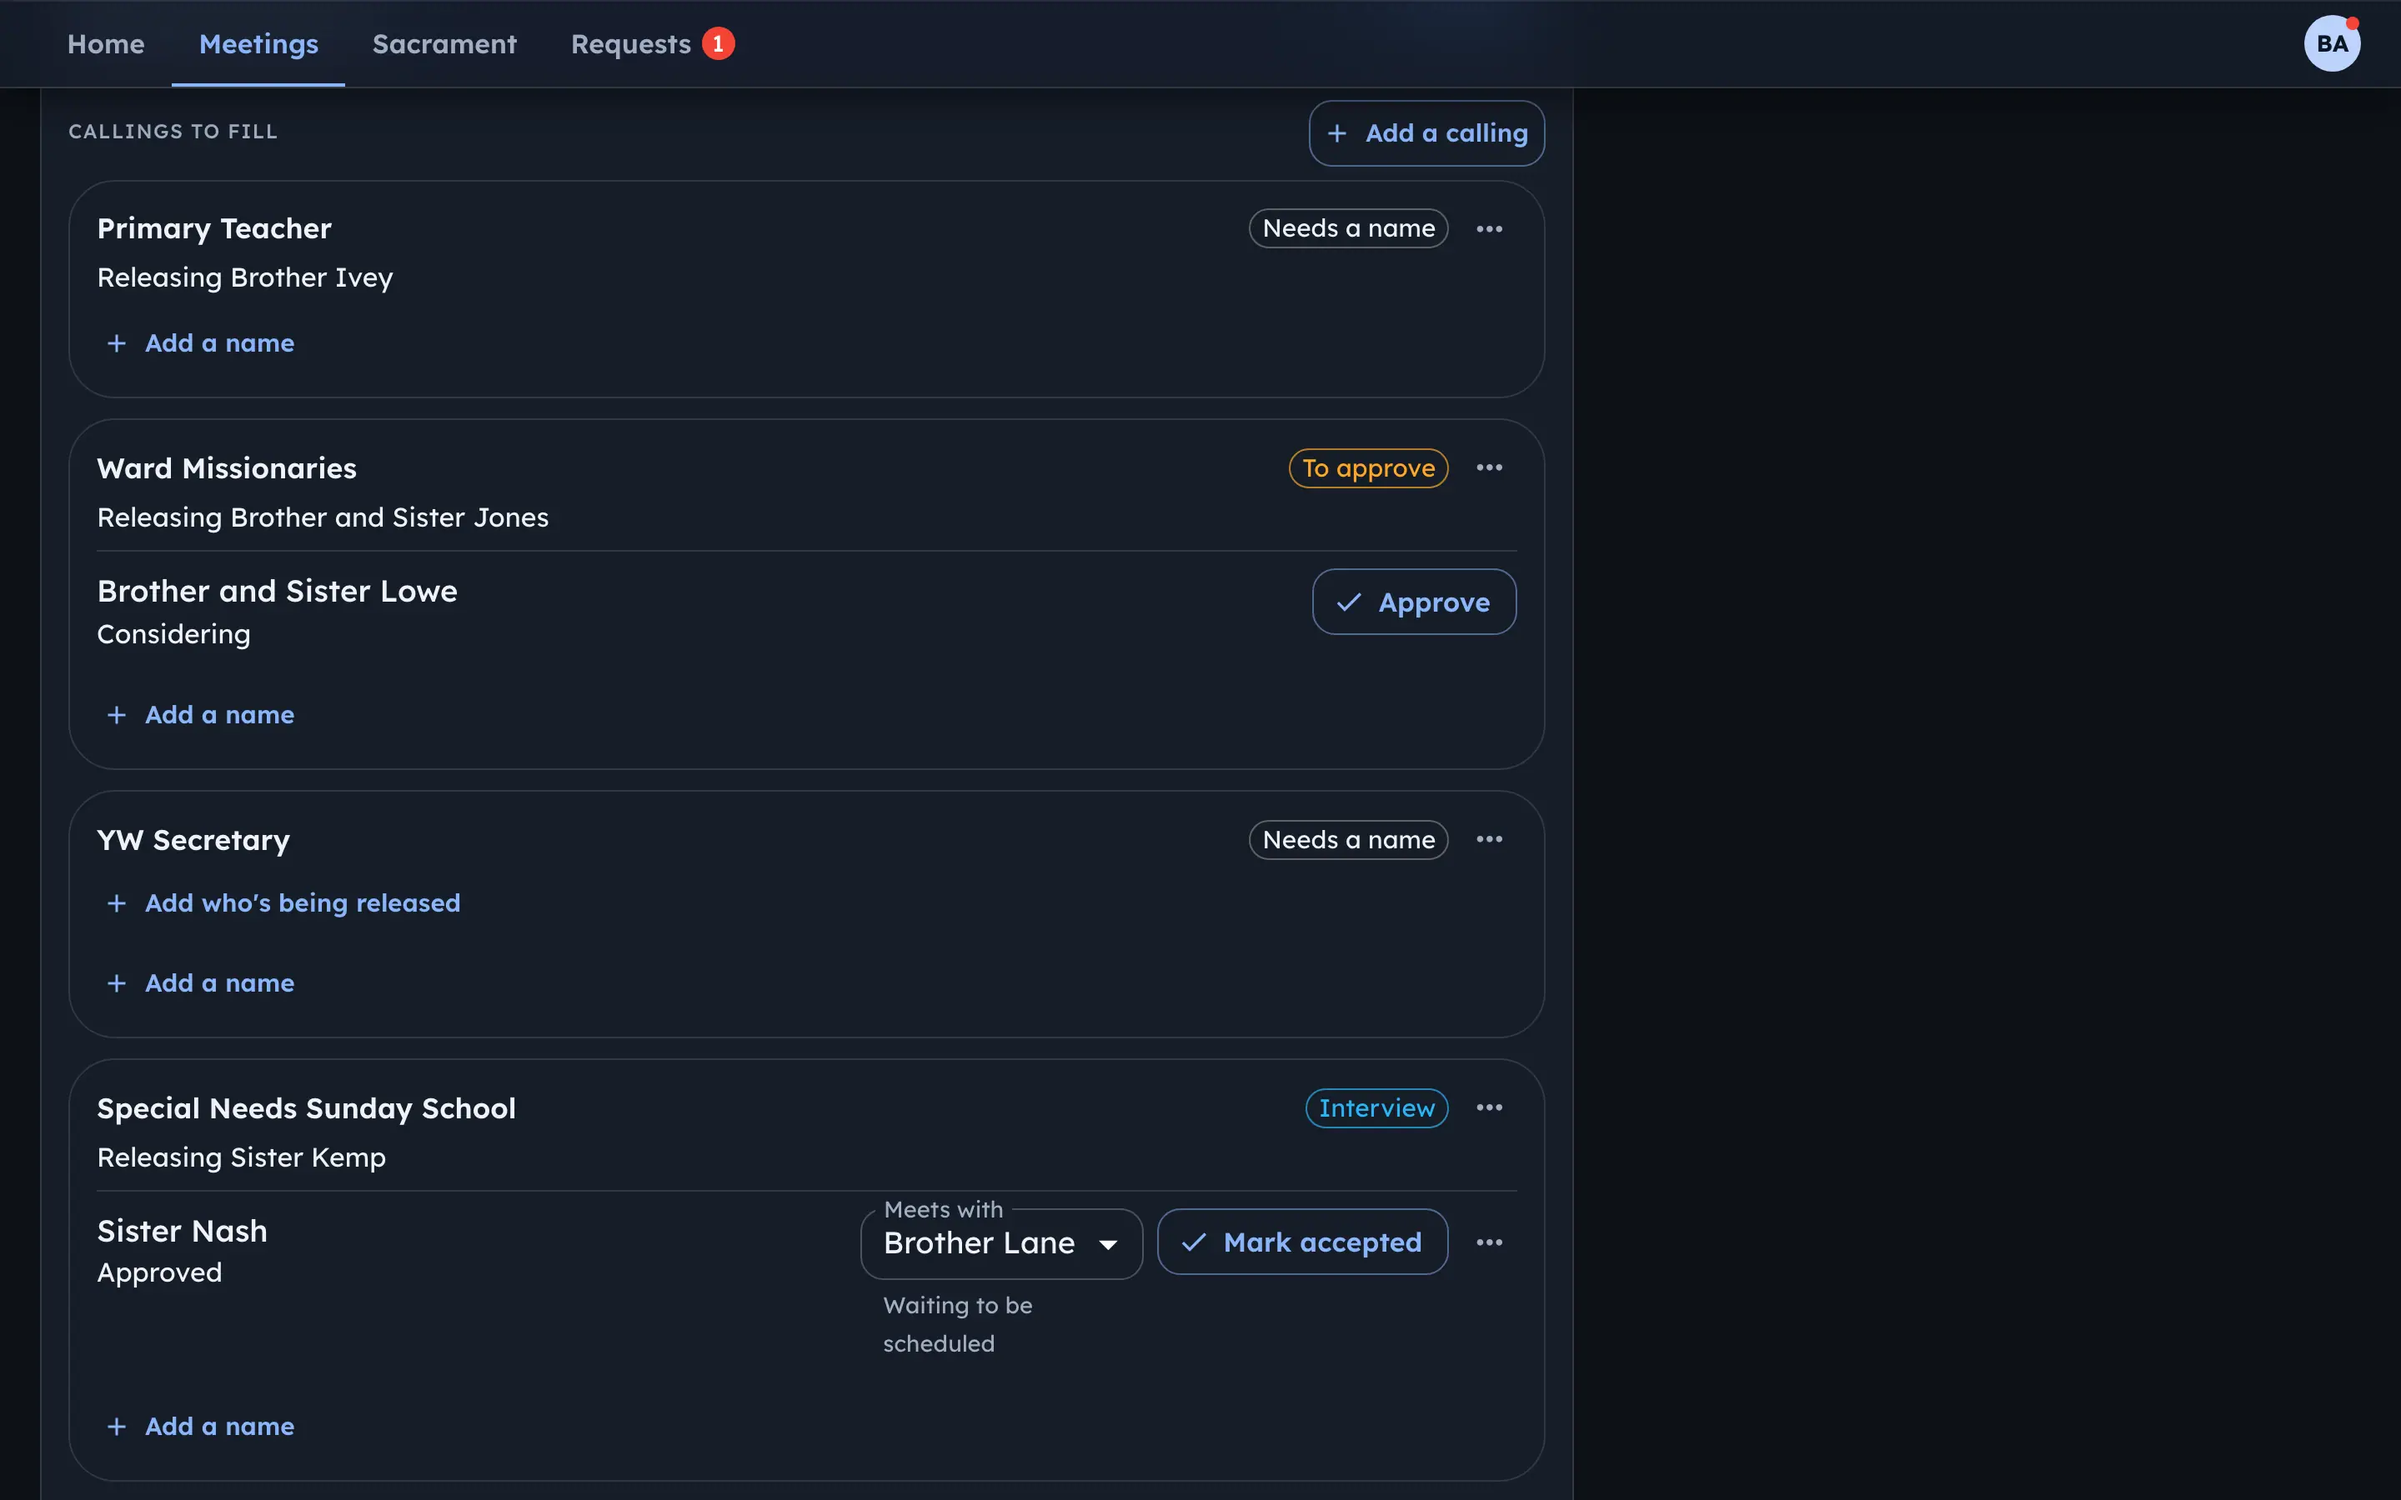
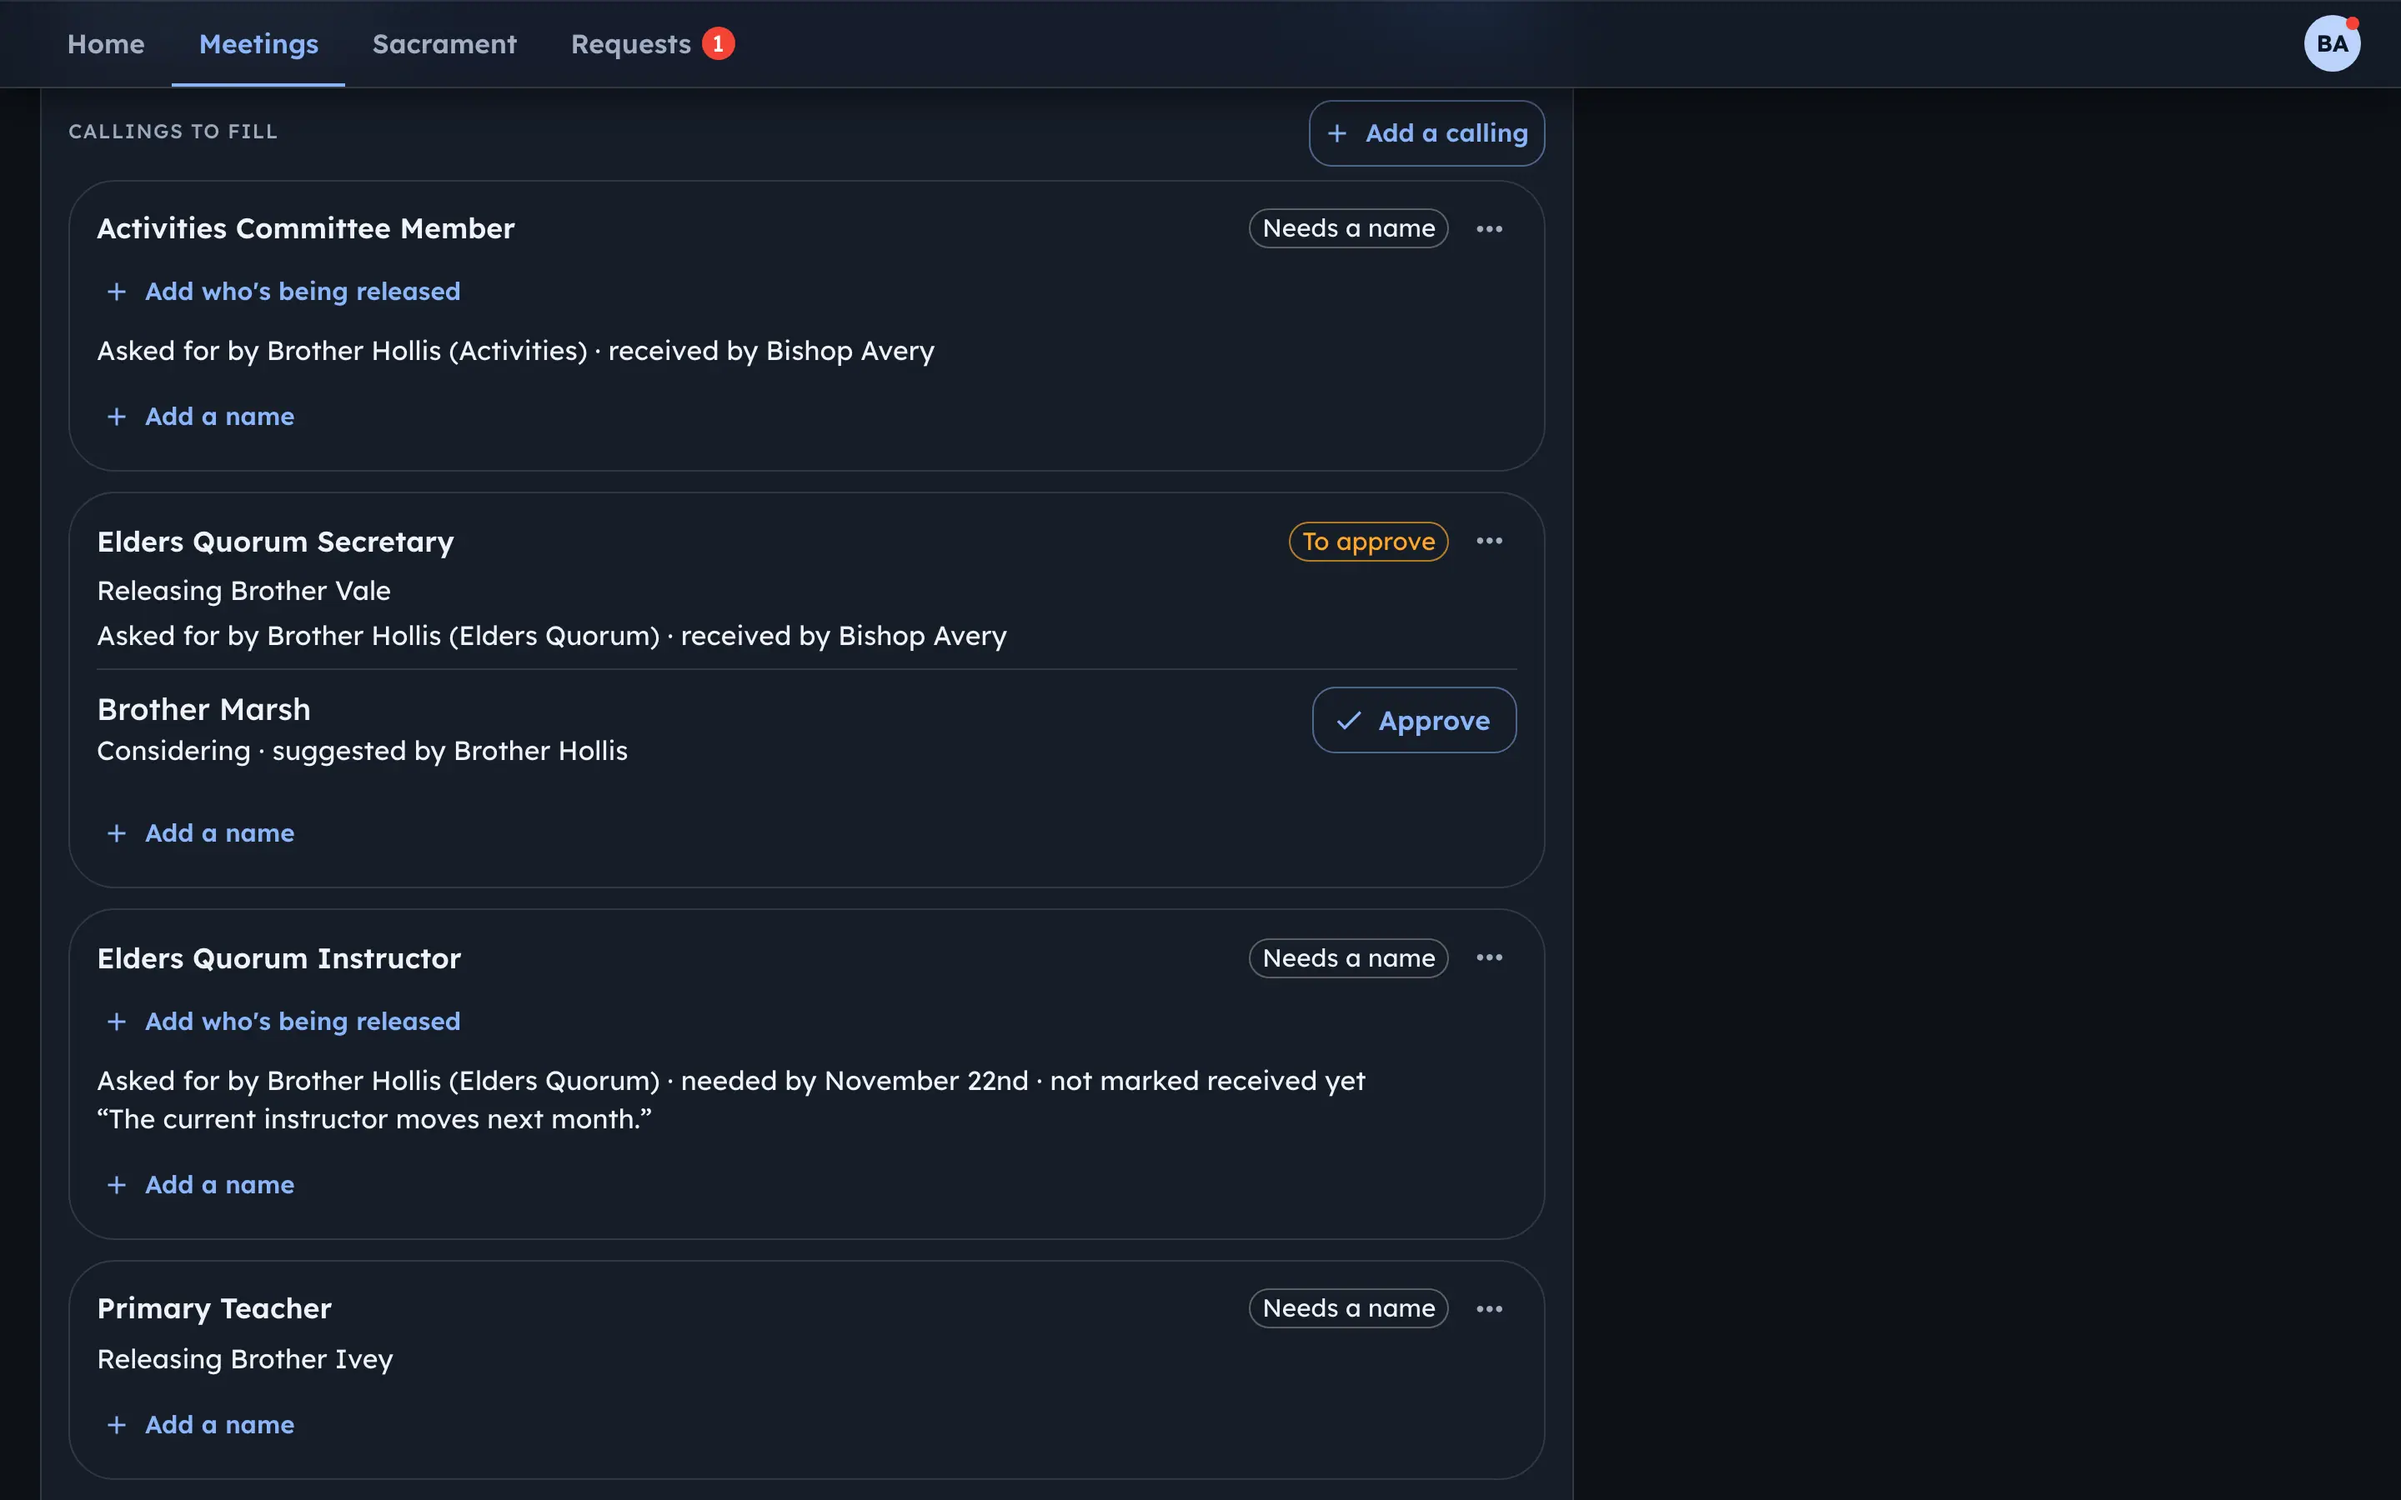
docs(site): add the add-calling dialog screenshot and refresh callings
The callings guide described the new dialog but had no picture of it,
and the callings screenshot still showed the old oldest-first order.
Adds a callings-add-dialog shot to the capture script and the guide,
which becomes MDX so it can hold a screenshot, and recaptures the
callings section.

diff --git a/scripts/screenshots/shots.ts b/scripts/screenshots/shots.ts
@@ -40,6 +40,22 @@ export const SHOTS: Shot[] = [
 
   { feature: 'agenda-bishopric', role: 'bishop', route: '/agenda/bishopric', caption: 'The bishopric meeting agenda with every section ready to fill in.', waitFor: /Action \/ discussion items/ },
   { feature: 'agenda-bishopric-callings', role: 'bishop', route: '/agenda/bishopric', caption: 'Callings are worked on the bishopric agenda: one card per calling, showing where it stands and its next step.', waitFor: /Action \/ discussion items/, prepare: scrollToText(/^Callings to fill$/) },
+  {
+    feature: 'callings-add-dialog',
+    role: 'bishop',
+    route: '/agenda/bishopric',
+    caption: 'Adding a calling: the calling, who is released and the first names to consider, with the rarer choices under More options.',
+    waitFor: /Callings to fill/,
+    prepare: async (page) => {
+      await page.getByRole('button', { name: 'Add a calling' }).click()
+      const dialog = page.getByRole('dialog', { name: 'Add a calling' })
+      await dialog.getByRole('combobox', { name: 'Calling' }).fill('Ward Librarian')
+      await page.keyboard.press('Tab')
+      await dialog.getByLabel("Who's being released (optional)").fill('Sister Ames')
+      await dialog.getByLabel('Name to consider (optional)').fill('Brother Hale')
+      await dialog.getByRole('button', { name: 'More options' }).click()
+    },
+  },
   { feature: 'agenda-bishopric-assignments', role: 'secretary', route: '/agenda/bishopric/2026-11-08', caption: 'Prayers and the spiritual thought go to someone picked from a list, who accepts or declines.', waitFor: /Bishopric Meeting Agenda/ },
   { feature: 'agenda-ward-council', role: 'bishop', route: '/agenda/ward-council', caption: 'Ward council agenda, with a section for each organization.', waitFor: /General business/ },
   { feature: 'agenda-ward-council-leader', role: 'leader', route: '/agenda/ward-council', caption: 'Called leaders who attend ward council see only that agenda.', waitFor: /General business/ },
